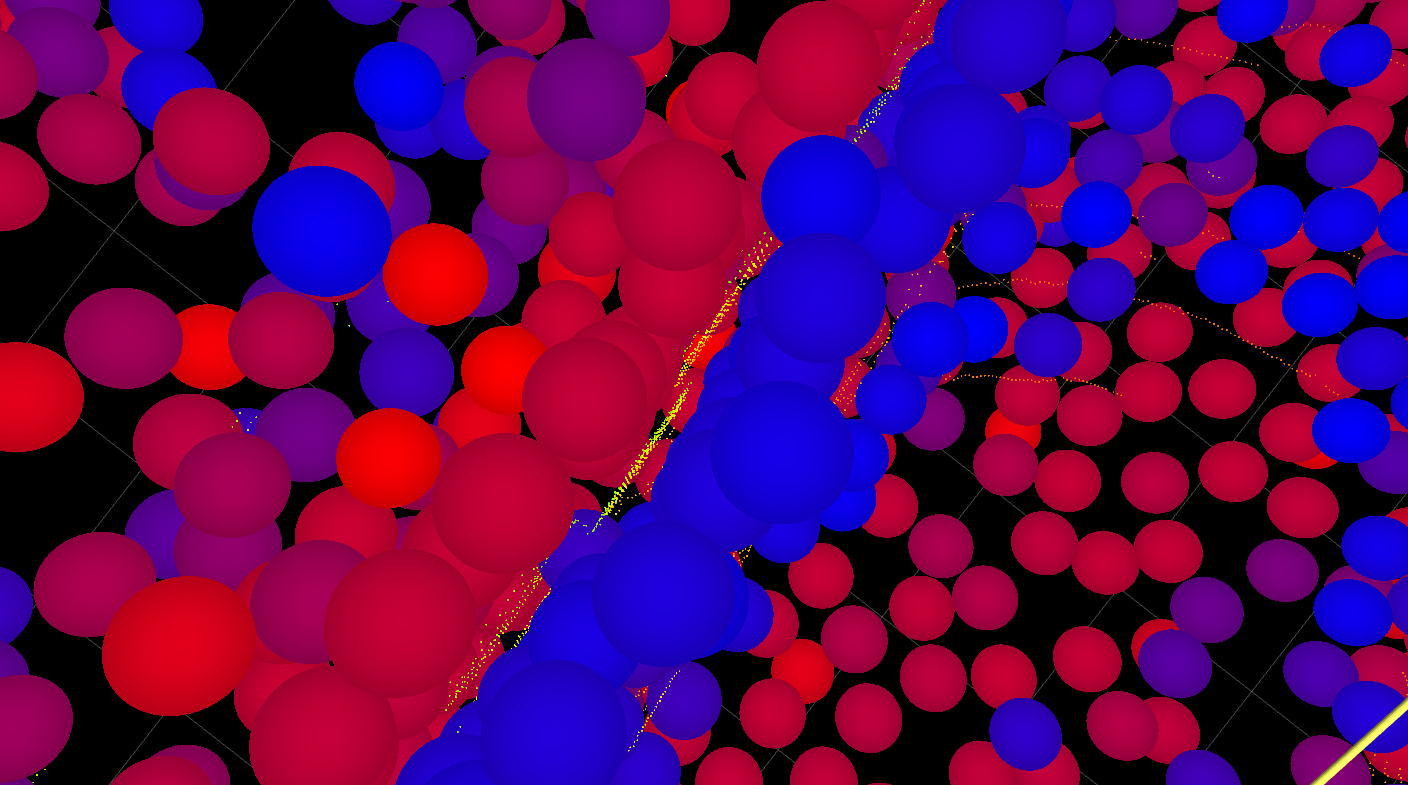
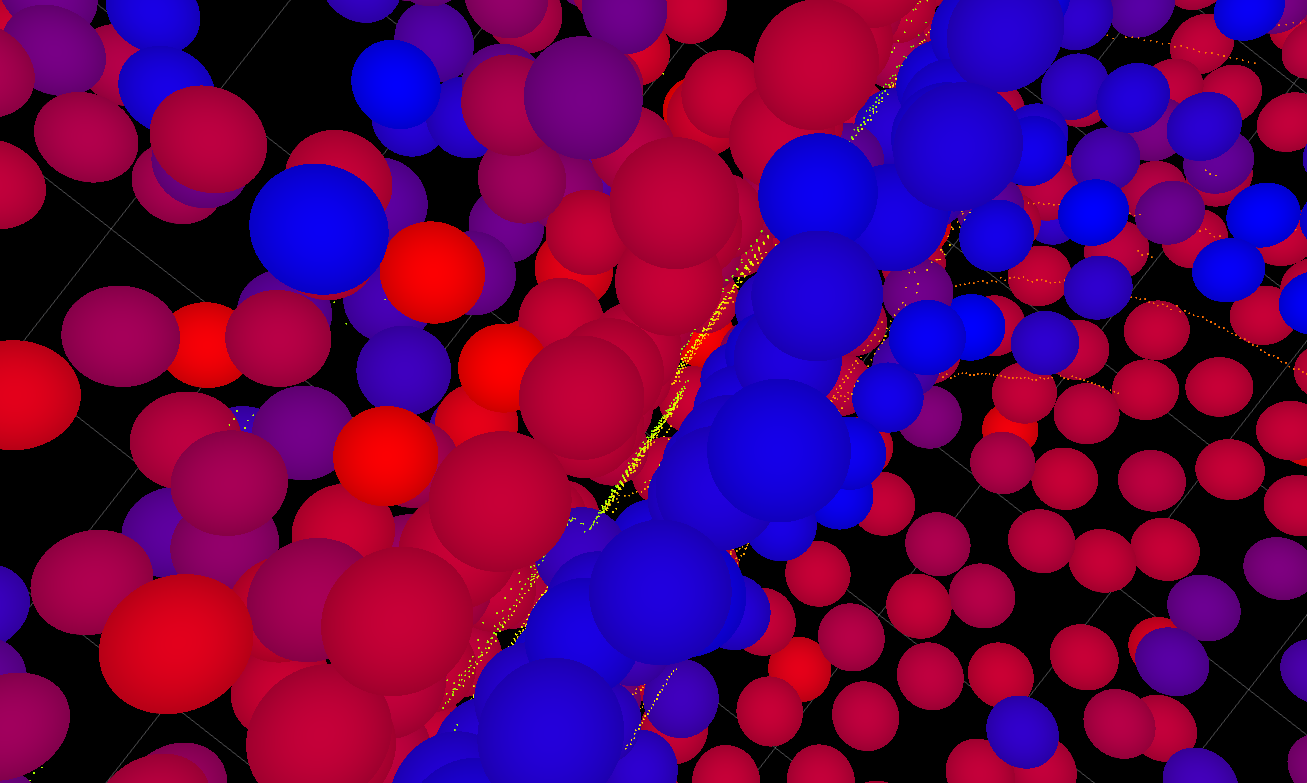
final commit before retooling of approx atom map

diff --git a/internal/src/atom_map/src/ApproximateAtomKdtree.cc b/internal/src/atom_map/src/ApproximateAtomKdtree.cc
@@ -66,11 +66,11 @@ namespace atom {
     std::vector< std::vector<float> > query_distances;
 
     const int kNumChecks = 32;
-    //    const float kEpsilon = 0.5;
+    const float kEpsilon = 0.0;
     const int num_neighbors_found =
       index_->knnSearch(flann_query, query_match_indices,
                         query_distances, static_cast<int>(k),
-                        flann::SearchParams(kNumChecks)); //, kEpsilon));
+                        flann::SearchParams(kNumChecks, kEpsilon));
 
     // Assign output.
     for (size_t ii = 0; ii < num_neighbors_found; ii++)
@@ -84,13 +84,13 @@ namespace atom {
 
   // Nearest neighbor queries.
   bool ApproximateAtomKdtree::GetKNearestNeighbors(const pcl::PointXYZ& p, size_t k,
-                                        std::vector<Atom::Ptr>* neighbors) {
+                                                   std::vector<Atom::Ptr>* neighbors) {
     return GetKNearestNeighbors(p.x, p.y, p.z, k, neighbors);
   }
 
   // Radius searching.
   bool ApproximateAtomKdtree::RadiusSearch(float x, float y, float z, float r,
-                                std::vector<Atom::Ptr>* neighbors) {
+                                           std::vector<Atom::Ptr>* neighbors) {
     CHECK_NOTNULL(neighbors);
     neighbors->clear();
 
@@ -112,12 +112,12 @@ namespace atom {
     std::vector< std::vector<float> > query_distances;
 
     // FLANN checks Euclidean distance squared, so we pass in r * r.
-    const int kNumChecks = 32;
-    //    const float kEpsilon = 0.5;
+    const int kNumChecks = 4;
+    const float kEpsilon = r * r;
     int num_neighbors_found =
       index_->radiusSearch(flann_query, query_match_indices,
                            query_distances, static_cast<float>(r * r),
-                           flann::SearchParams(kNumChecks)); //, kEpsilon, false));
+                           flann::SearchParams(kNumChecks, kEpsilon, false)); //, kEpsilon, false));
     // Assign output.
     for (size_t ii = 0; ii < num_neighbors_found; ii++)
       neighbors->push_back(registry_[ query_match_indices[0][ii] ]);

diff --git a/internal/src/atom_map/include/atom_map/ApproximateAtomMap.h b/internal/src/atom_map/include/atom_map/ApproximateAtomMap.h
@@ -40,6 +40,7 @@
 
 #include <atom_map/Atom.h>
 #include <atom_map/ApproximateAtomKdtree.h>
+#include <atom_map/AtomKdtree.h>
 #include <atom_map/AtomMapParameters.h>
 #include <atom_map/RaySamples.h>
 #include <parameter_utils/ParameterUtils.h>
@@ -71,7 +72,8 @@ namespace atom {
     // inserting one scan (ideally with interleaving), and we are going
     // to then use an exact kdtree to merge this with the big map, it is
     // alright to use FLANN speedups and sacrifice accuracy here.
-    ApproximateAtomKdtree map_;
+    //    ApproximateAtomKdtree map_;
+    AtomKdtree map_;
 
     // Atomic radius.
     const float radius_;
